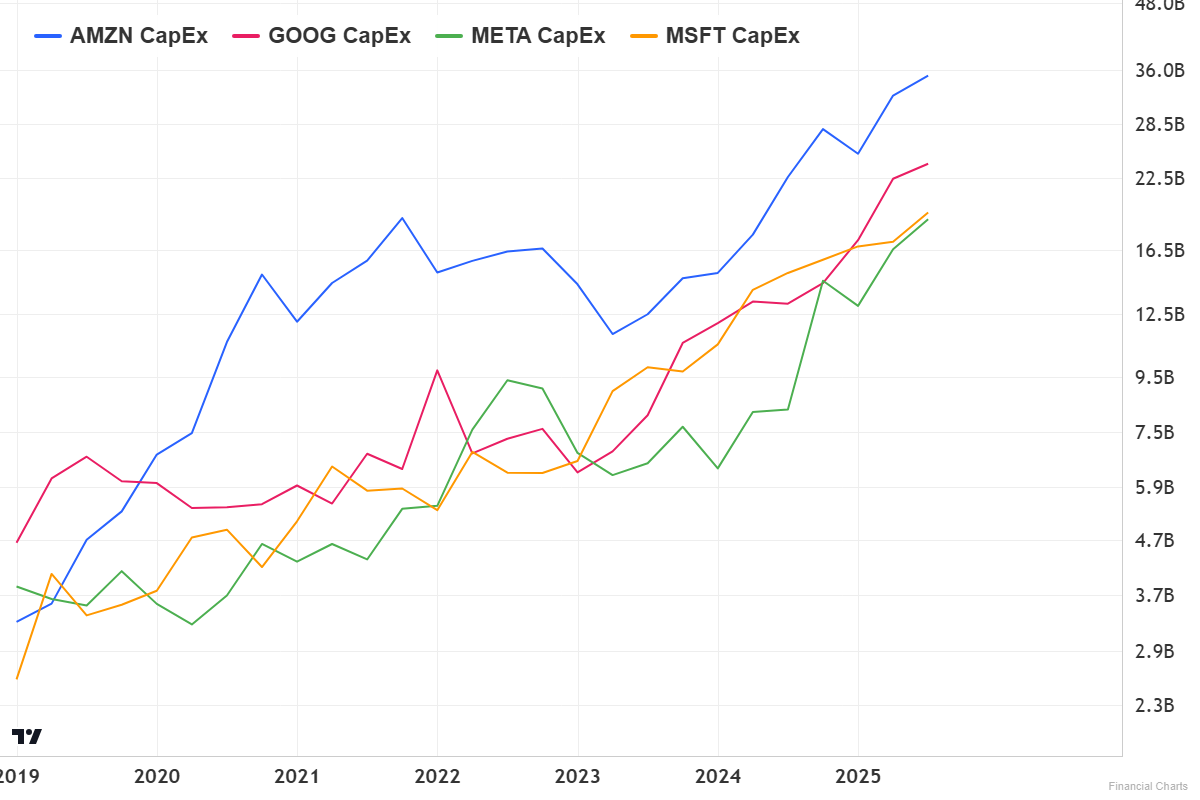
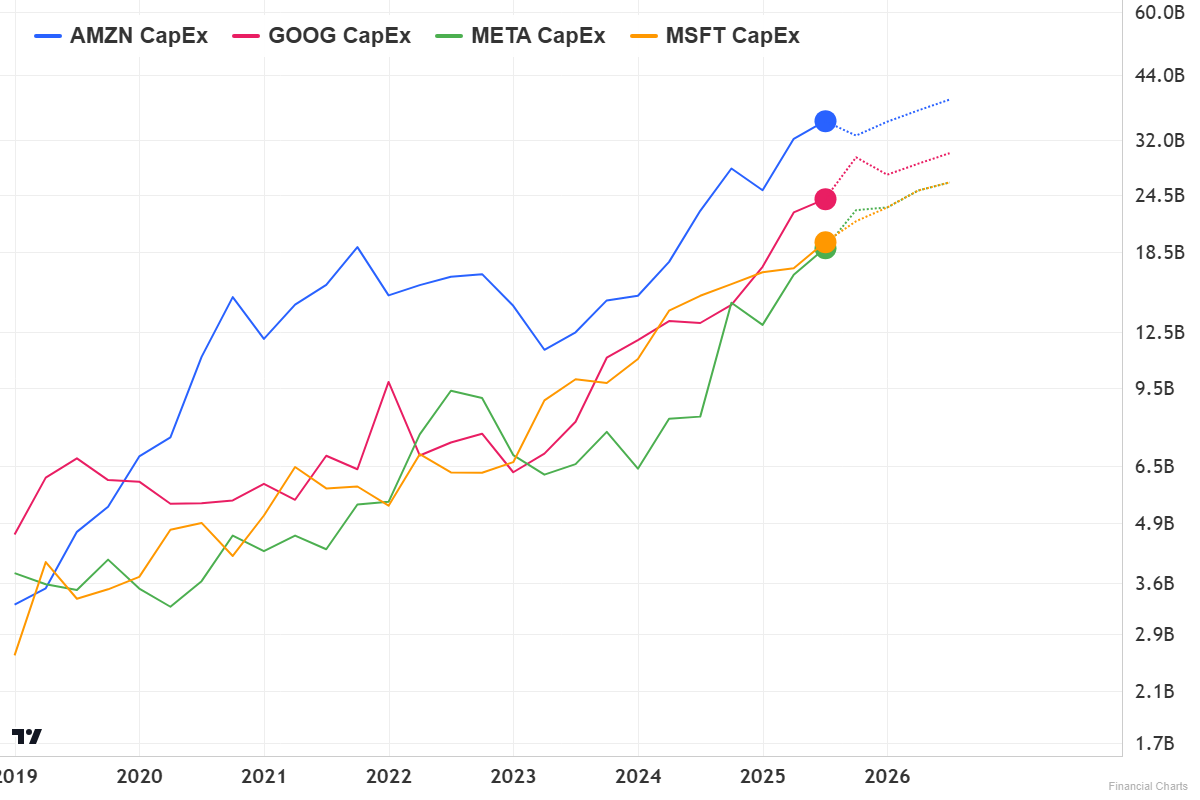
Add hyperscaler capex forecasts through 2026
Based on company guidance:
- AMZN: $125B (2025) → ~$150B (2026)
- GOOG: $93B → ~$115B
- META: $71B → ~$100B
- MSFT: ~$66B → ~$100B

Combined 2026 forecast: ~$465B (+31% YoY)

diff --git a/investing/Concepts/AI hyperscalers.md b/investing/Concepts/AI hyperscalers.md
@@ -24,7 +24,17 @@ Hyperscaler $ → NVIDIA/AMD → TSMC/Samsung → SK Hynix (HBM) → ASE (packag
 
 ![[hyperscaler-capex.png]]
 
-*Annualized Q3 2025 run rate: ~$390B*
+*Solid lines = actual; dotted = forecast based on company guidance*
+
+**2026 forecast (annual):**
+
+| Hyperscaler | 2025 Guidance | 2026 Forecast | YoY |
+|-------------|---------------|---------------|-----|
+| **AMZN** | $125B | ~$150B | +20% |
+| **GOOG** | $93B | ~$115B | +24% |
+| **META** | $71B | ~$100B | +41% |
+| **MSFT** | ~$66B | ~$100B | +52% |
+| **Total** | **$355B** | **~$465B** | **+31%** |
 
 **2025 context:**
 

diff --git a/investing/Daily/2026-01-20.md b/investing/Daily/2026-01-20.md
@@ -103,4 +103,17 @@ Added `capex` metric to chart API and generated comparison:
 |------|---------|
 | [[AI hyperscalers]] | Added capex chart, quarterly trajectory table |
 
+### Forecasts added
+
+Based on company guidance:
+
+| Company | 2025 | 2026E | YoY |
+|---------|------|-------|-----|
+| AMZN | $125B | ~$150B | +20% |
+| GOOG | $93B | ~$115B | +24% |
+| META | $71B | ~$100B | +41% |
+| MSFT | ~$66B | ~$100B | +52% |
+
+**Combined 2026:** ~$465B (+31% YoY)
+
 *Session 2: Hyperscaler capex research*
